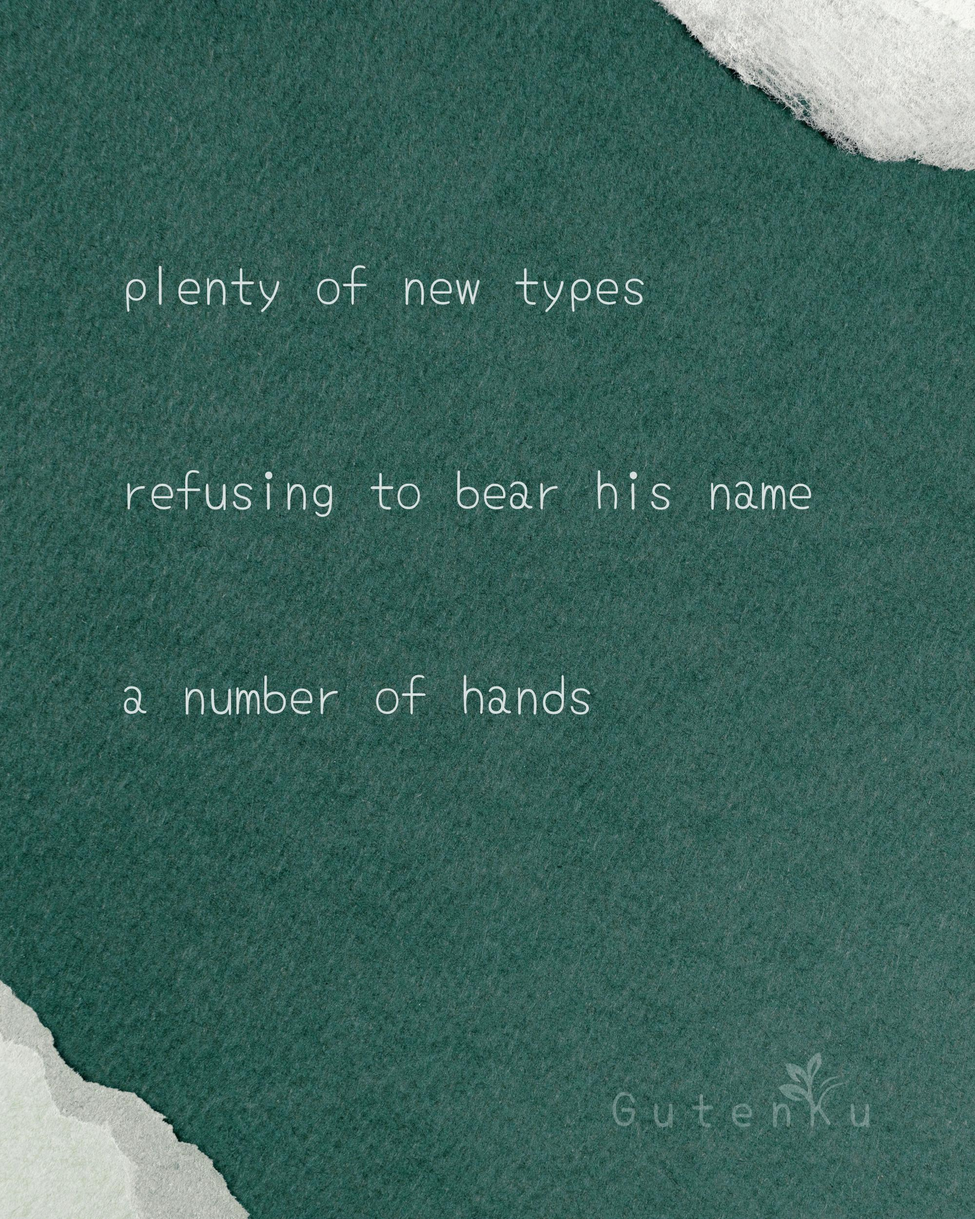
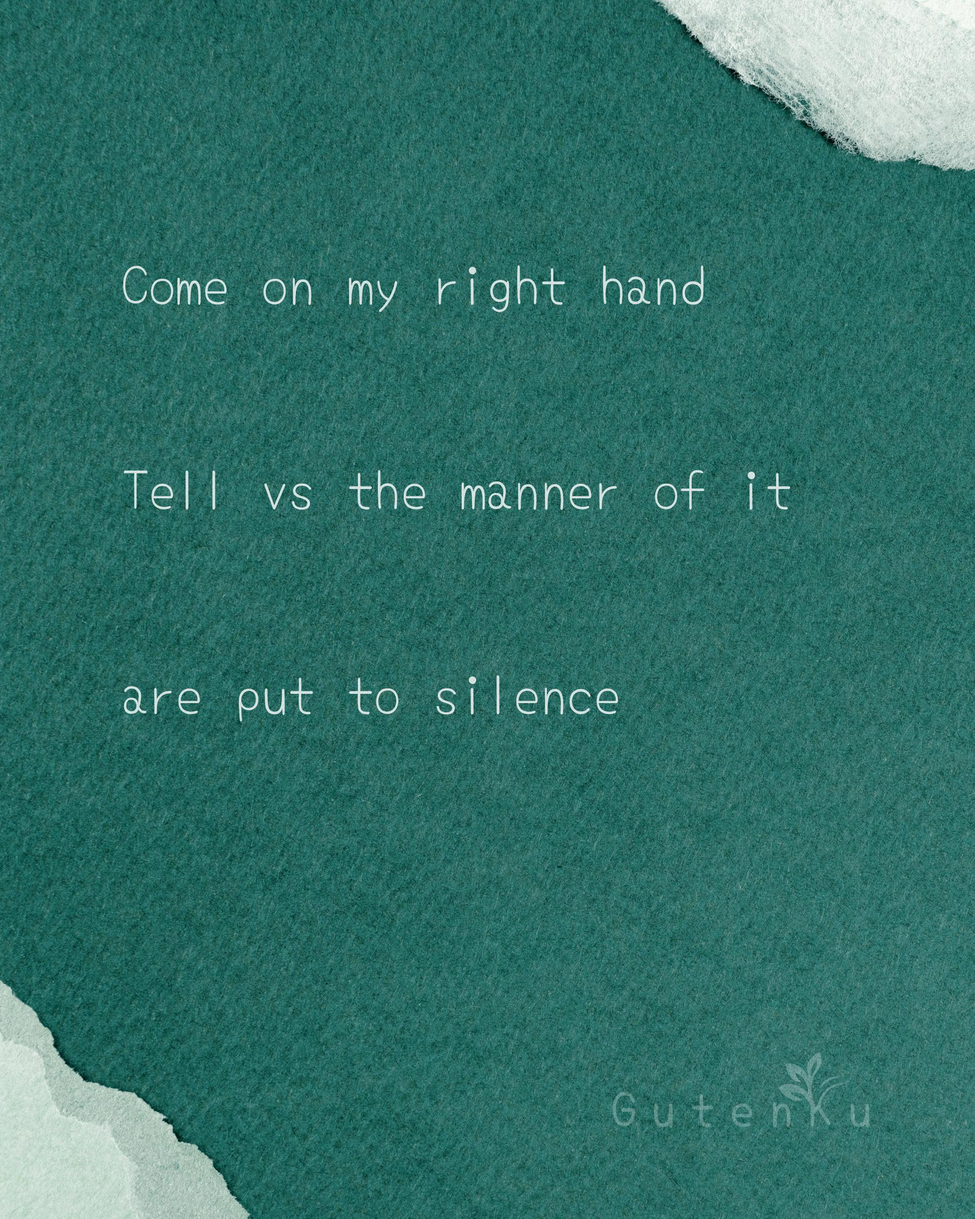
docs(readme): updated daily haiku card

diff --git a/README.md b/README.md
@@ -25,13 +25,13 @@
 <table>
 <tr>
 <td width="300" valign="top">
-<img src="/assets/img/daily_haiku_card.jpg?t=1789984844" width="280" alt="Daily Haiku Card">
+<img src="/assets/img/daily_haiku_card.jpg?t=1790071243" width="280" alt="Daily Haiku Card">
 </td>
 <td valign="top">
 
-> _"This haiku suggests a world of change, division, and identity being questioned. The phrase "plenty of new types" implies variety, growth, or perhaps new people and ideas emerging. "Refusing to bear his name" suggests rejection of authority, legacy, or ownership—these new forms do not wish to be defined by one person or tradition. "A number of hands" creates an image of many people acting together, or of labor, support, and collective effort. Overall, the haiku feels like a reflection on independence, transformation, and the power of many voices over one dominant name."_
+> _"This haiku feels like a plea for guidance in a moment of confusion or conflict. The speaker addresses the “right hand,” which can suggest strength, loyalty, or an inner helper, and asks it to explain how things have become so quiet or restrained. The phrase “are put to silence” creates a mood of tension, as if voices, actions, or truths have been suppressed. The language is compact but dramatic, leaving the reader with a sense of urgency, uncertainty, and hidden emotion."_
 
-— **BotenKu** 📅 _Sep 21, 2026_
+— **BotenKu** 📅 _Sep 22, 2026_
 
 </td>
 </tr>
